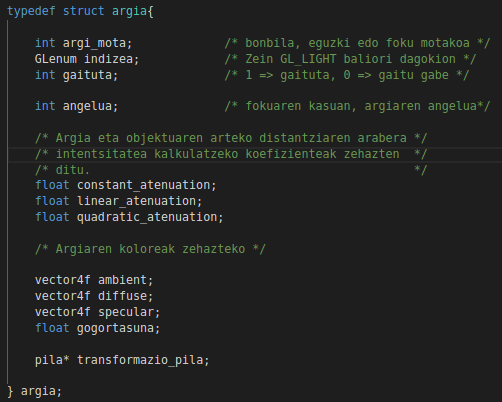
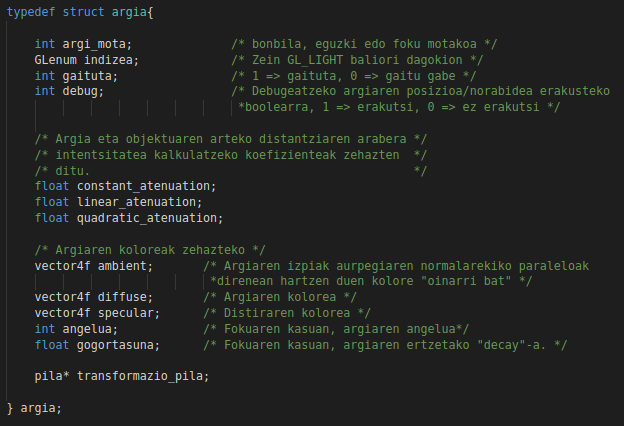
Irudiak gehituta

diff --git a/doc/f3_doc.tex b/doc/f3_doc.tex
@@ -255,18 +255,19 @@ Bizitza errealeko argiak simulatzen dituzten hiru argi mota inplementatu ditugu:
 
 Eguzkia direkzionala da, edozein puntutan bere argiak angelu berarekin inziditzen baitu. Beraz, bakarrik hartu behar dugu kontutan norabidea (eguzkia infinituan baitago). Beste biak posizionalak dira, argi-izpiak posizio batetik era erradial eta dibergente batean abiatuz. Hala ere, bonbilaren kasuan, norabideak ez du garrantziarik, norabide guztietan igortzen baitu argia. Posizoa eta norabidea, biak kontutan hartzen dituen argi mota bakarra fokua da.
 
+\begin{center}
+\includegraphics[scale=0.6]{argia_posdirek.jpeg}
 
-EZ DA IKUSTEN DESBERDINTASUNE IRUDIXETAN.
+\textbf{9. irudia}: argi posizionala eta direkzionala.
+\end{center}
 
 \aldagai{OpenGLk} desberdintasn hau nabaritzen du \aldagai{GL\_POSITION-i} pasatzen diogunaren arabera: bektorearen azken elementua 0 bada, bektore bat pasatzen ari gara, beraz, \aldagai{OpenGLk} eguzki-motatzat hartuko du argi hori. Pasatzen diogun bektorearen azken balioa 1 bada, argia posizionala bezala tratatuko du.\\
 
 \begin{center}
 \includegraphics[scale=2.5]{argia_estruktura.png}
 
-\textbf{9. irudia}: argia estruktura.
+\textbf{10. irudia}: argia estruktura.
 \end{center}
-
-BARRIRO ATARA ARGAZKIXE PLS, ALDATU EINDOT ETA.\\
 
 Goiko irudian agertzen den esstrukturaz baliatuz, argairen datuak gordeko ditugu. \aldagai{argi\_mota} eguzki -0- , bonbila -1- edo foku -2- artean desberdintzeko balio du. \aldagai{indizea} zehazten du zein argiri dagokion instantzia horien datuak. \aldagai{gaituta} adierazten du ea argia piztuta dagoenentz. \aldagai{angelua} fokuaren kasuan honek daukan zabalera zehazteko balio du. \aldagai{diffuse} aldagaiak argiaren kolorea zehazten du. \aldagai{ambient} hitzak esaten duen moduan, argiaren ingurumenaren kolorea zehazten du. \aldagai{specular} objektua distiratsua bada, honen kolorea kalkulatzeko zehazten den argiaren kolore-mota hau balio du. \aldagai{gogortasuna} argitik iluntasunera dagoen espektroaren "gogortasuna"zehazten du. Amaitzeko, \aldagai{transformazio\_pila} argiari egindako transfromazio matrizeen pila gordetzeko balio du.\\
 
@@ -294,12 +295,11 @@ Batzuetan argiaren posizioa edo norabideaz ahaztea gerta daitekenez, \textit{deb
 
 \textbf{Oharra}: hasieran, bai posizioak eta norabideak munduko jatorria adierazten duten ardatzekin bat egingo dute eta baliteke ezin ikusi ahal izatea.\\
 
-Hona hemen adibide bat:
+Hona hemen adibide bat:\\
 \begin{center}
-SARTU KAPTURA FOKOREN BAT DEBUG MODOAN, (IKUSTIE ONDO ARDATZAK, NORABIDIENA BEBAI).
-%\includegraphics[scale=1]{}
+\includegraphics[scale=1.3]{debug.png}
 
-\textbf{10. irudia}: \textit{debug} laguntza.
+\textbf{11. irudia}: \textit{debug} laguntza.
 \end{center}
 
 Baina, nola pasatzen dizkiogu OpenGL-ri argiaren egiturako datuak?\\
